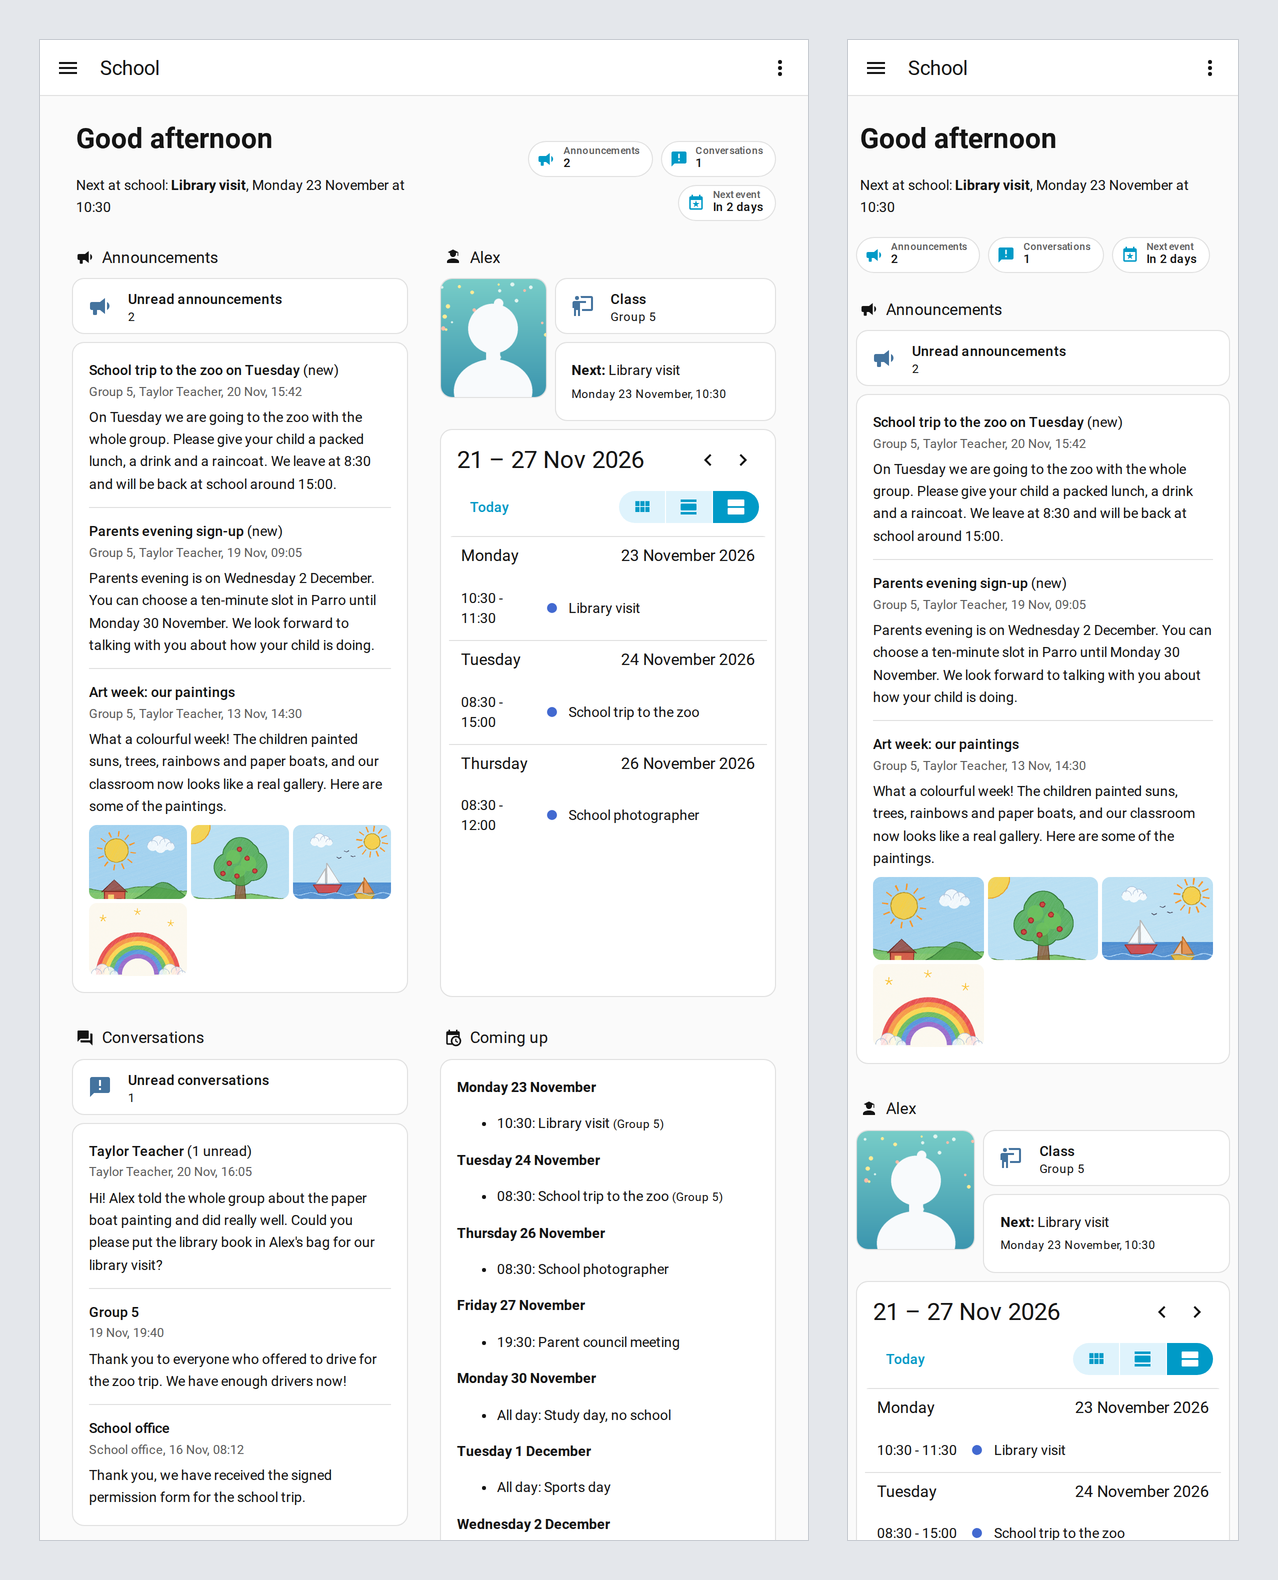
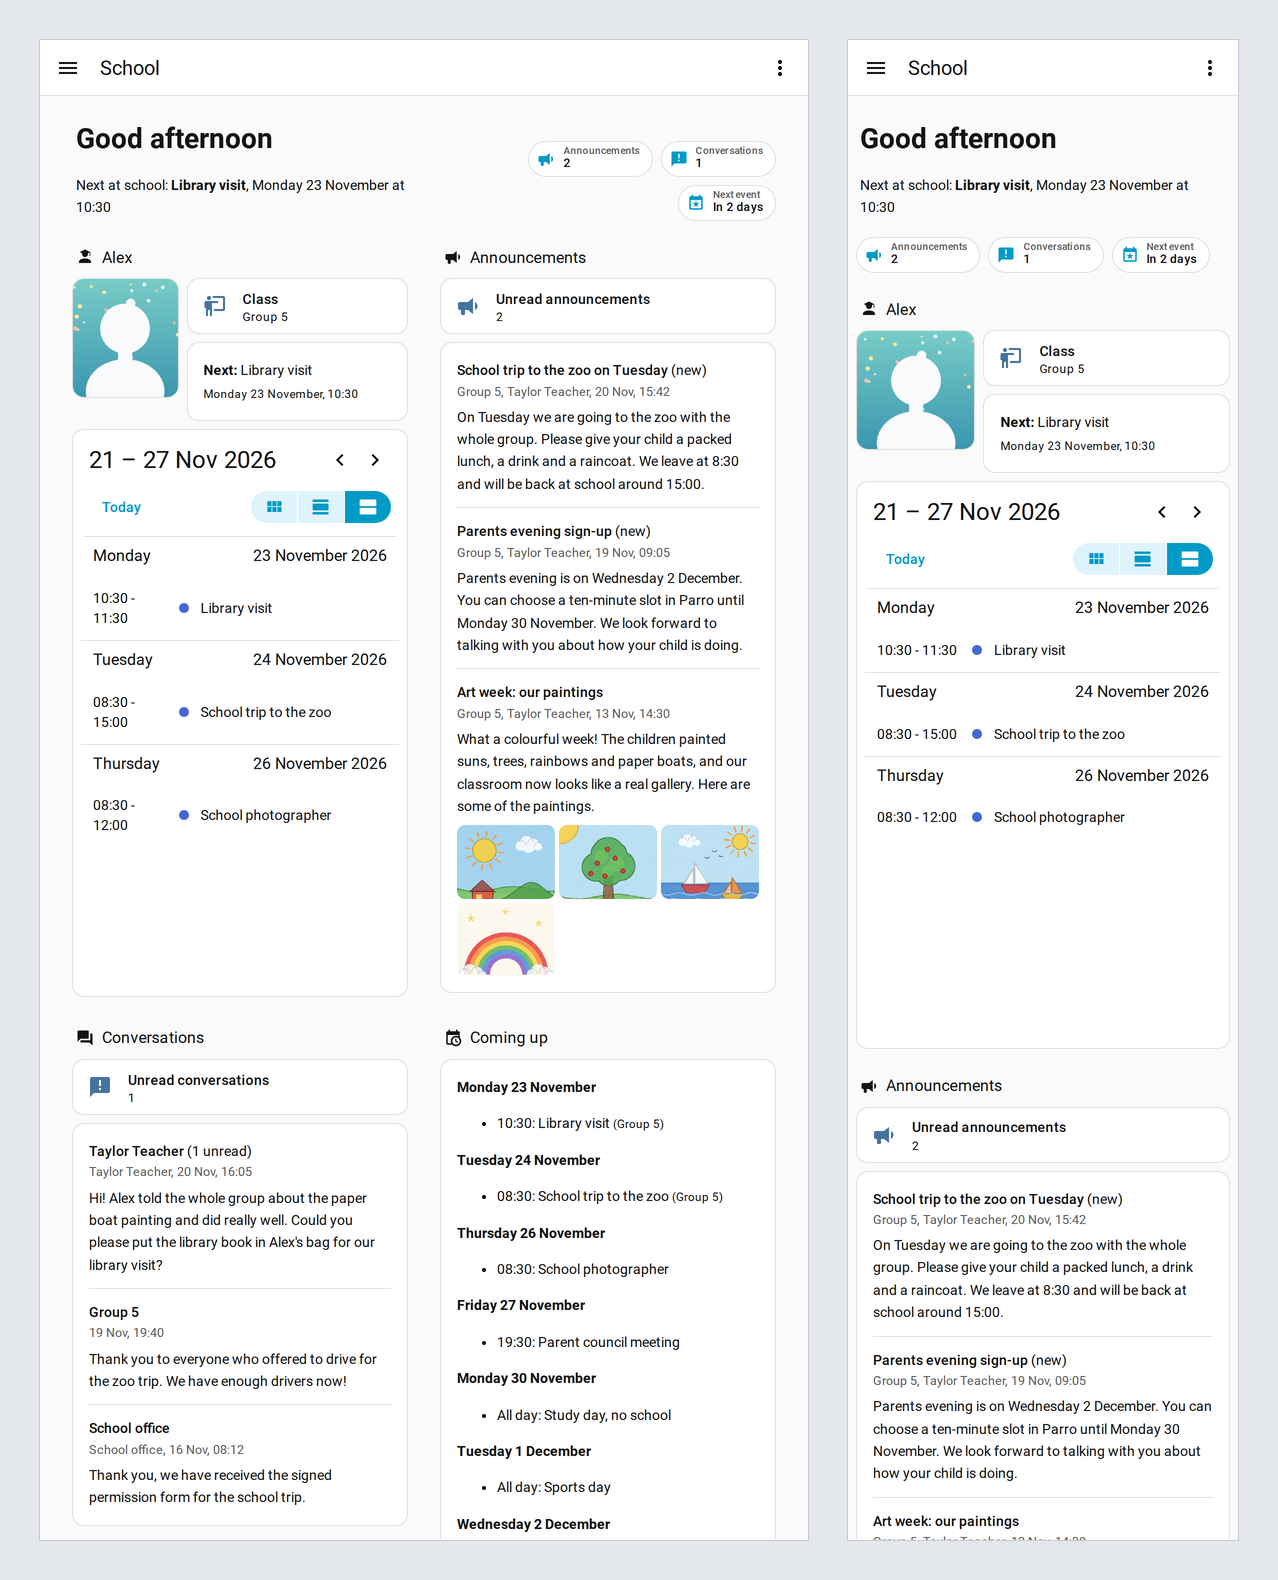
Example dashboard with the child section first again, as before the laptop layout change

Changed region(s): [[0.6714, 0.1861, 0.9765, 0.9924], [0.0305, 0.1551, 0.3052, 0.6203], [0.3357, 0.1551, 0.6103, 0.6203]]

diff --git a/README.md b/README.md
@@ -139,7 +139,7 @@ The pop-up shows what Home Assistant already has: it asks the Parro service noth
 
 ## Example dashboard
 
-Want a head start? [`examples/dashboard.yaml`](examples/dashboard.yaml) is a complete School dashboard: a greeting with the next school activity, badges for unread announcements, unread conversations and the next activity, the Parro card with the 3 newest announcements and their photos, the child's photo, class and calendar, the Parro card with the conversations, the coming activities and the school calendar. For all recent announcements, tap **Unread announcements** at the top of the card, or change `announcement_count`. The screenshots show made-up data.
+Want a head start? [`examples/dashboard.yaml`](examples/dashboard.yaml) is a complete School dashboard: a greeting with the next school activity, badges for unread announcements, unread conversations and the next activity, the child's photo, class and calendar, the Parro card with the 3 newest announcements and their photos, the Parro card with the conversations, the coming activities and the school calendar. For all recent announcements, tap **Unread announcements** at the top of the card, or change `announcement_count`. The screenshots show made-up data.
 
 ![The example dashboard on a laptop](examples/dashboard-laptop.png)
 
